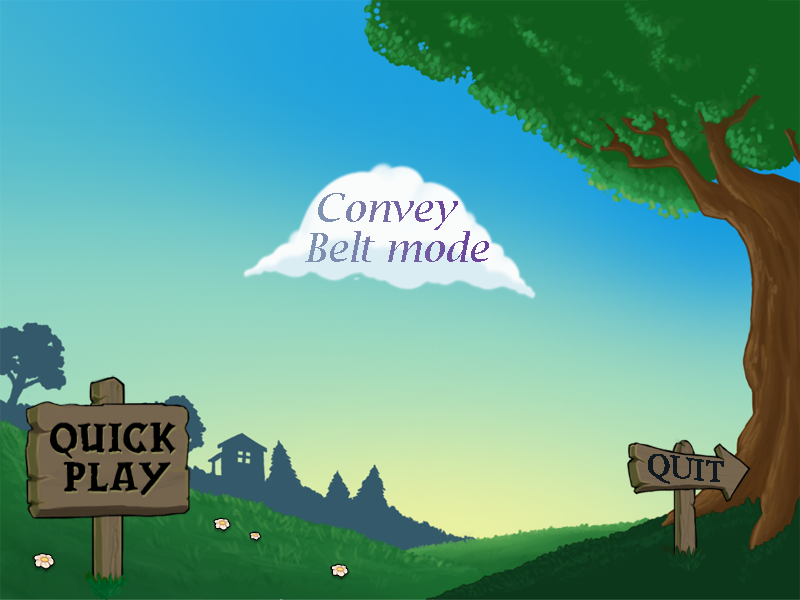
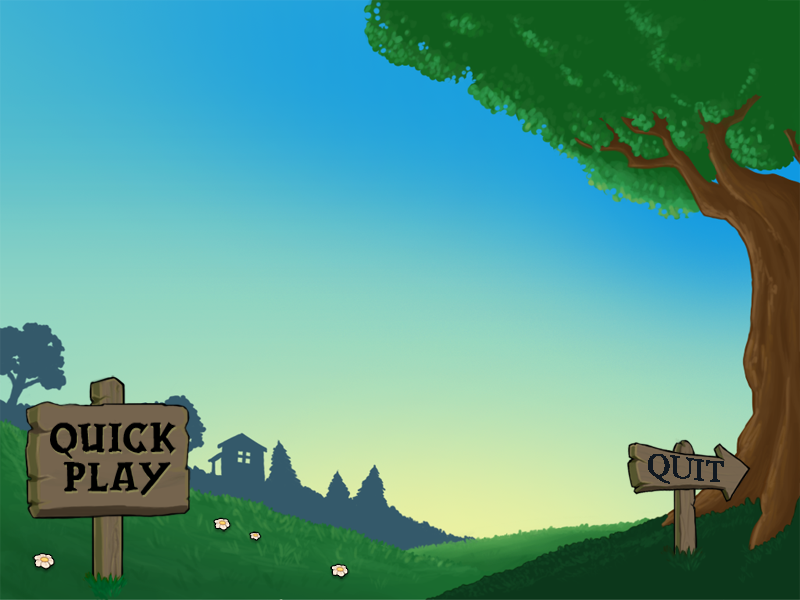
change menu

Changed region(s): [[0.3125, 0.27, 0.6875, 0.51]]

diff --git a/src/Pvz1/viewmodel/mainwindow.cpp b/src/Pvz1/viewmodel/mainwindow.cpp
@@ -1,6 +1,5 @@
 #include "mainwindow.h"
 #include "gamewindow1.h"
-#include "gamewindow2.h"
 
 
 MainWindow::MainWindow(QWidget *parent)
@@ -23,13 +22,6 @@ MainWindow::MainWindow(QWidget *parent)
     b1.setParent(this);
     b1.setGeometry(29,402,162,113);  //位置大小
 
-    b2.setStyleSheet("QPushButton{background-color:transparent;}"
-                     "QPushButton:pressed{border-image:url(:/image/res/mode.png);}");
-    //第二个按钮的背景及按下效果
-
-    b2.setParent(this);
-    b2.setGeometry(241,160,297,141);  //位置大小
-
 
     b5.setStyleSheet("QPushButton{background-color:transparent;}"
                      "QPushButton:pressed{border-image:url(:/image/res/quit.png);}");
@@ -41,7 +33,6 @@ MainWindow::MainWindow(QWidget *parent)
 
     connect(&b5,&QPushButton::clicked,this,&MainWindow::close);
     connect(&b1,&QPushButton::clicked,this,&MainWindow::game1);
-    connect(&b2,&QPushButton::clicked,this,&MainWindow::game2);
 
 
 }
@@ -73,20 +64,7 @@ void MainWindow::back1()
 
 }
 
-void MainWindow::game2()
-{
-    flag=2;
-    gamewin2=new GameWindow2;
-    gamewin2->show();
-    flag=2;
-    this->hide();
-    connect(gamewin2,&GameWindow2::myslot,this,&MainWindow::back2);
-}
-void MainWindow::back2()
-{
-    this->show();
-    delete gamewin2;
-}
+
 
 void MainWindow::win1again(){
     delete gamewin1;

diff --git a/src/Pvz1/viewmodel/mainwindow.h b/src/Pvz1/viewmodel/mainwindow.h
@@ -4,7 +4,6 @@
 #include <QMainWindow>
 #include "QPushButton"
 #include "gamewindow1.h"
-#include "gamewindow2.h"
 
 class MainWindow : public QWidget
 {
@@ -27,10 +26,9 @@ public:
     QWidget* GetWin();
     int flag=1;
     GameWindow1 *gamewin1;//普通无尽窗口的对象
-    GameWindow2 *gamewin2;//传送带窗口的对象
 
 private:
-    QPushButton b1,b2,b5;//b1是进入普通无尽的按钮，b2是进入传送带的按钮，b5是退出游戏的按钮
+    QPushButton b1,b5;//b1是进入普通无尽的按钮，b2是进入传送带的按钮，b5是退出游戏的按钮
 
 
 
